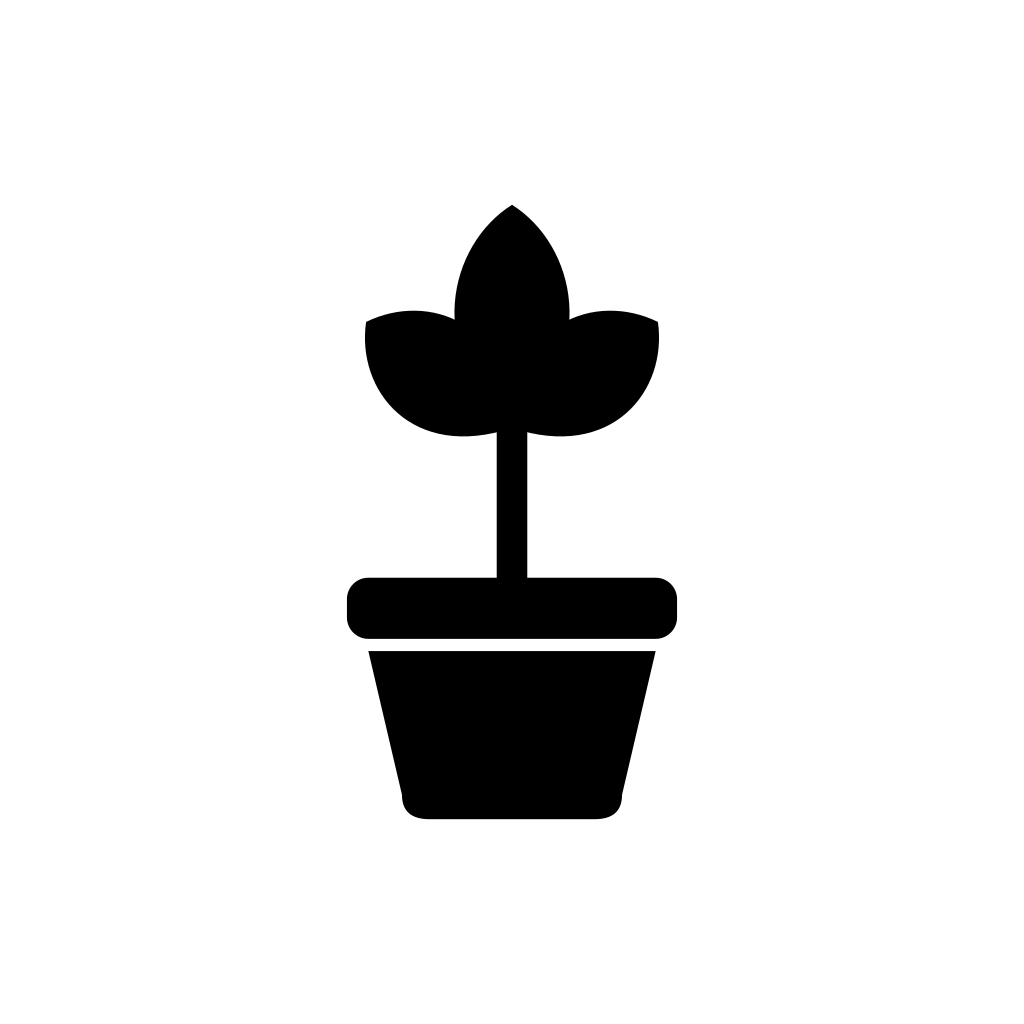
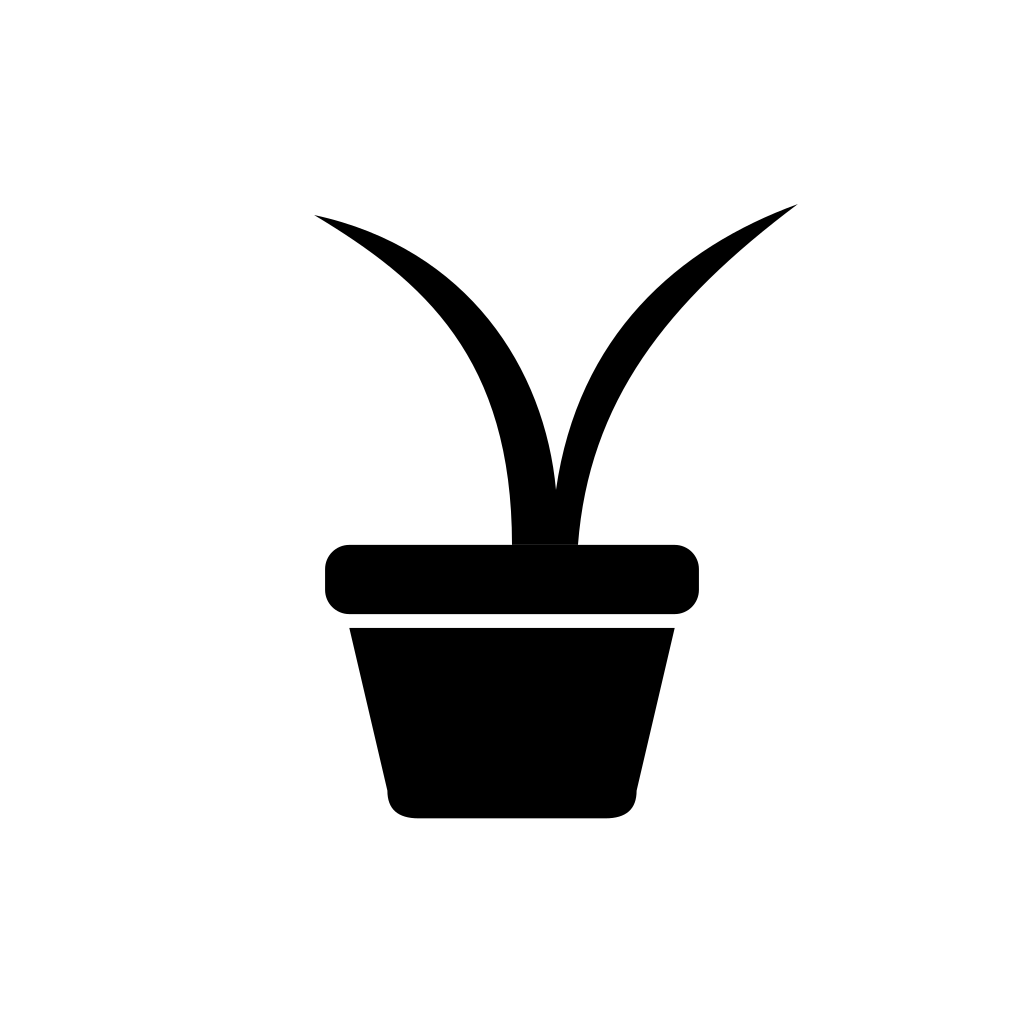
feat(brand): new mark, a two-stem leaf over the pot
Ghabriel drew the leaf and it goes in without a redraw — the original path,
fitted to the width of the pot rim. The three-leaf stem is out.

Changed region(s): [[0.3125, 0.1875, 0.75, 0.8125], [0.75, 0.1875, 0.7812, 0.2188]]

diff --git a/scripts/generate-icons.js b/scripts/generate-icons.js
@@ -8,25 +8,20 @@ const MOSS = "#3E6B4A";
 const POT = "#C88B6A";
 
 const OUT = path.join(__dirname, "..", "assets", "images");
-const LEGAL = path.join(__dirname, "..", "legal");
+const SITE = process.env.BROTO_WEB_DIR ?? path.join(__dirname, "..", "..", "web");
 
 const LEAF =
-  "M0 0 C-56 -40.12 -40.32 -96.76 0 -118 C40.32 -96.76 56 -40.12 0 0 Z";
-const CROWN =
-  "M0 0 C-58 -49.64 -41.76 -119.72 0 -146 C41.76 -119.72 58 -49.64 0 0 Z";
+  "M38 39C38 22 30 15 20 9C34 12 41 23 42 34C44 20 53 12 64 8C52 17 45 26 44 39H38Z";
+const FIT =
+  "translate(256 306) scale(6.3529) translate(-38 -39)";
 const BODY = "M-94 2 L94 2 L72 96 Q72 112 54 112 L-54 112 Q-72 112 -72 96 Z";
 
-const BOX = { cx: 256, cy: 263, height: 402 };
+const BOX = { cx: 256, cy: 287, height: 355 };
 
 function mark(plant, pot, rim) {
   return `
-  <g transform="translate(256 320)" fill="${plant}">
-    <rect x="-10" y="-136" width="20" height="150" rx="10"/>
-    <g transform="translate(0 -112)">
-      <g transform="rotate(-54)"><path d="${LEAF}"/></g>
-      <g transform="rotate(54)"><path d="${LEAF}"/></g>
-      <path d="${CROWN}"/>
-    </g>
+  <g transform="${FIT}" fill="${plant}">
+    <path d="${LEAF}"/>
   </g>
   <g transform="translate(256 352)">
     <rect x="-108" y="-46" width="216" height="40" rx="14" fill="${rim}"/>
@@ -57,25 +52,12 @@ const targets = [
     flat: "#000000",
   },
   { file: "splash-icon.png", size: 512, scale: 0.86 },
-  { file: "favicon.png", size: 196, background: SAND, scale: 0.76 },
-  { file: "mark.png", size: 240, scale: 0.9, out: LEGAL },
-  {
-    file: "favicon.png",
-    size: 180,
-    background: MOSS,
-    flat: SAND,
-    scale: 0.88,
-    radius: 112,
-    out: LEGAL,
-  },
+  { file: "favicon.png", size: 196, background: SAND, scale: 0.76, radius: 112 },
+  { file: "mark.png", size: 240, scale: 0.9, out: SITE },
+  { file: "favicon.png", size: 180, background: SAND, scale: 0.74, radius: 112, out: SITE },
 ];
 
-const SITE_FAVICON = {
-  background: MOSS,
-  flat: SAND,
-  scale: 0.88,
-  radius: 112,
-};
+const SITE_FAVICON = { background: SAND, scale: 0.74, radius: 112 };
 
 async function run() {
   fs.mkdirSync(OUT, { recursive: true });
@@ -97,7 +79,7 @@ async function run() {
   );
 
   fs.writeFileSync(
-    path.join(LEGAL, "favicon.svg"),
+    path.join(SITE, "favicon.svg"),
     canvas(SITE_FAVICON).toString(),
   );
 }

diff --git a/src/components/illustrations/Logo.tsx b/src/components/illustrations/Logo.tsx
@@ -2,9 +2,8 @@ import Svg, { G, Path, Rect } from "react-native-svg";
 
 import { theme } from "@/style/theme";
 
-const LEAF = "M0 0 C-56 -40.12 -40.32 -96.76 0 -118 C40.32 -96.76 56 -40.12 0 0 Z";
-const CROWN =
-  "M0 0 C-58 -49.64 -41.76 -119.72 0 -146 C41.76 -119.72 58 -49.64 0 0 Z";
+const LEAF = "M38 39C38 22 30 15 20 9C34 12 41 23 42 34C44 20 53 12 64 8C52 17 45 26 44 39H38Z";
+const FIT = "translate(256 306) scale(6.3529) translate(-38 -39)";
 const BODY = "M-94 2 L94 2 L72 96 Q72 112 54 112 L-54 112 Q-72 112 -72 96 Z";
 
 type LogoProps = {
@@ -19,18 +18,9 @@ export function Logo({ size = 64, tone = "color" }: LogoProps) {
   const rim = light ? theme.text.onPrimary : theme.primary.clay;
 
   return (
-    <Svg width={size} height={size} viewBox="140 55 232 420">
-      <G transform="translate(256 320)" fill={plant}>
-        <Rect x={-10} y={-136} width={20} height={150} rx={10} />
-        <G transform="translate(0 -112)">
-          <G transform="rotate(-54)">
-            <Path d={LEAF} />
-          </G>
-          <G transform="rotate(54)">
-            <Path d={LEAF} />
-          </G>
-          <Path d={CROWN} />
-        </G>
+    <Svg width={size} height={size} viewBox="135 103 292 367">
+      <G transform={FIT} fill={plant}>
+        <Path d={LEAF} />
       </G>
 
       <G transform="translate(256 352)">
